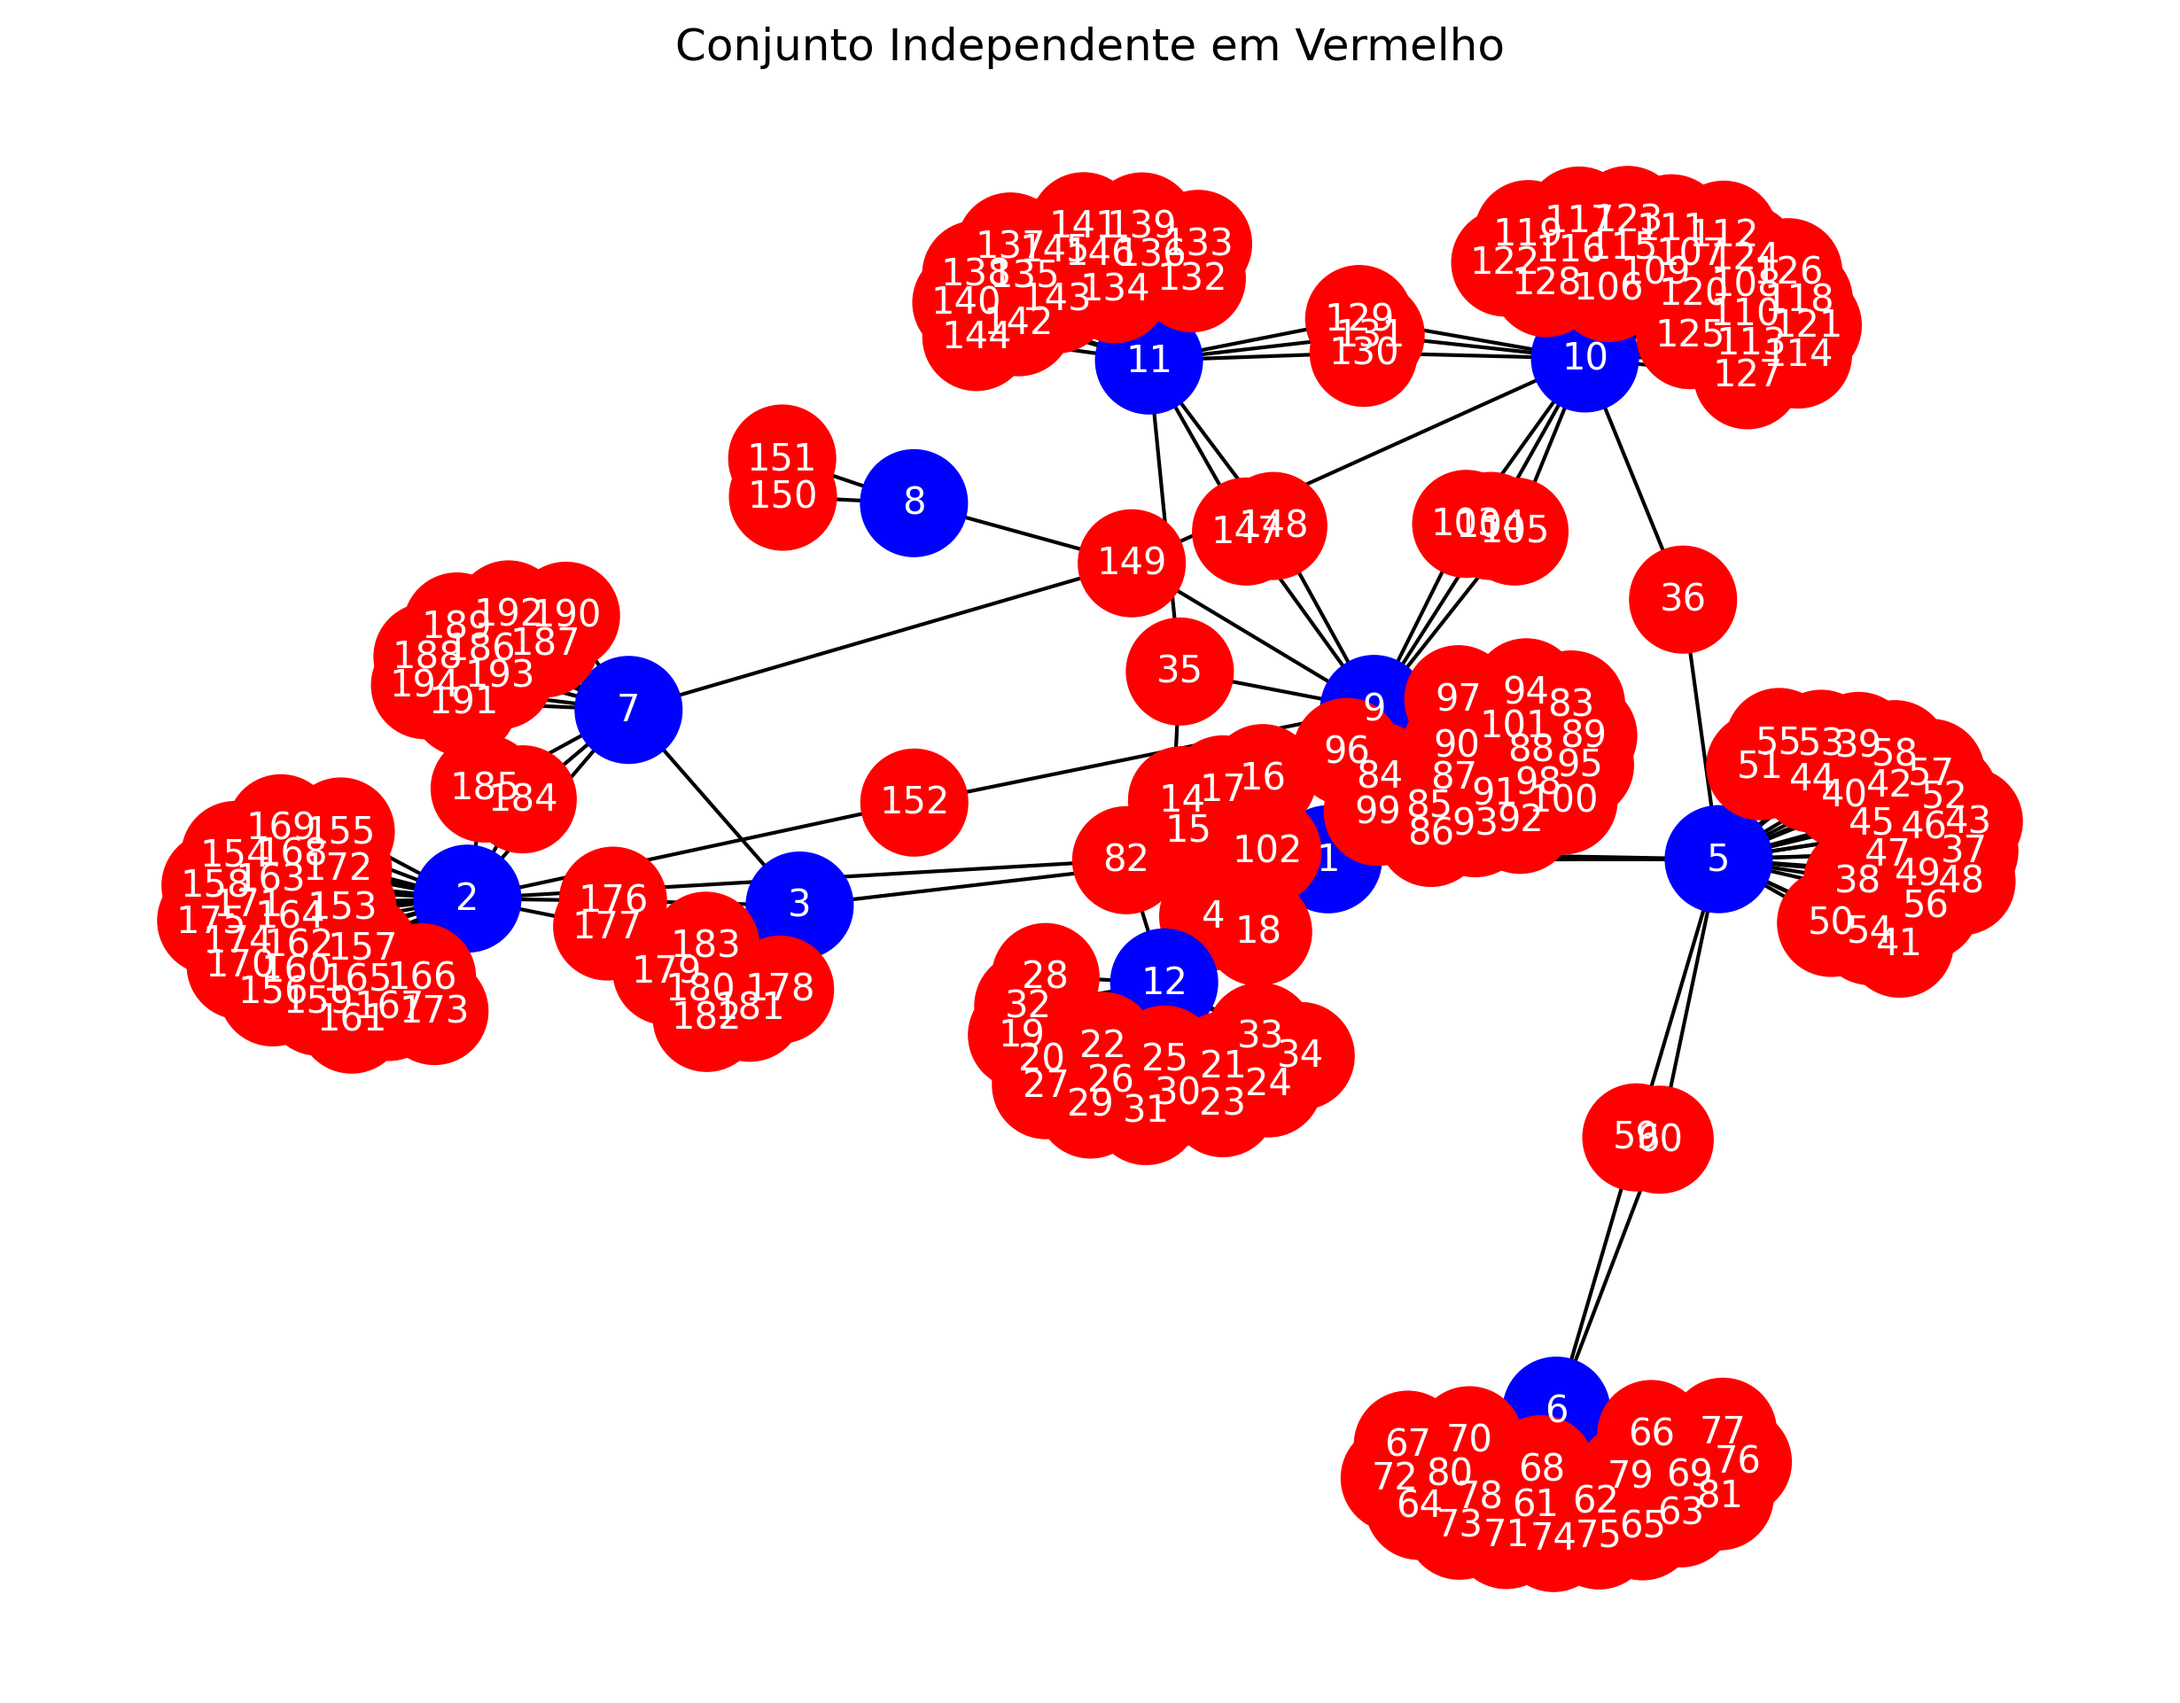
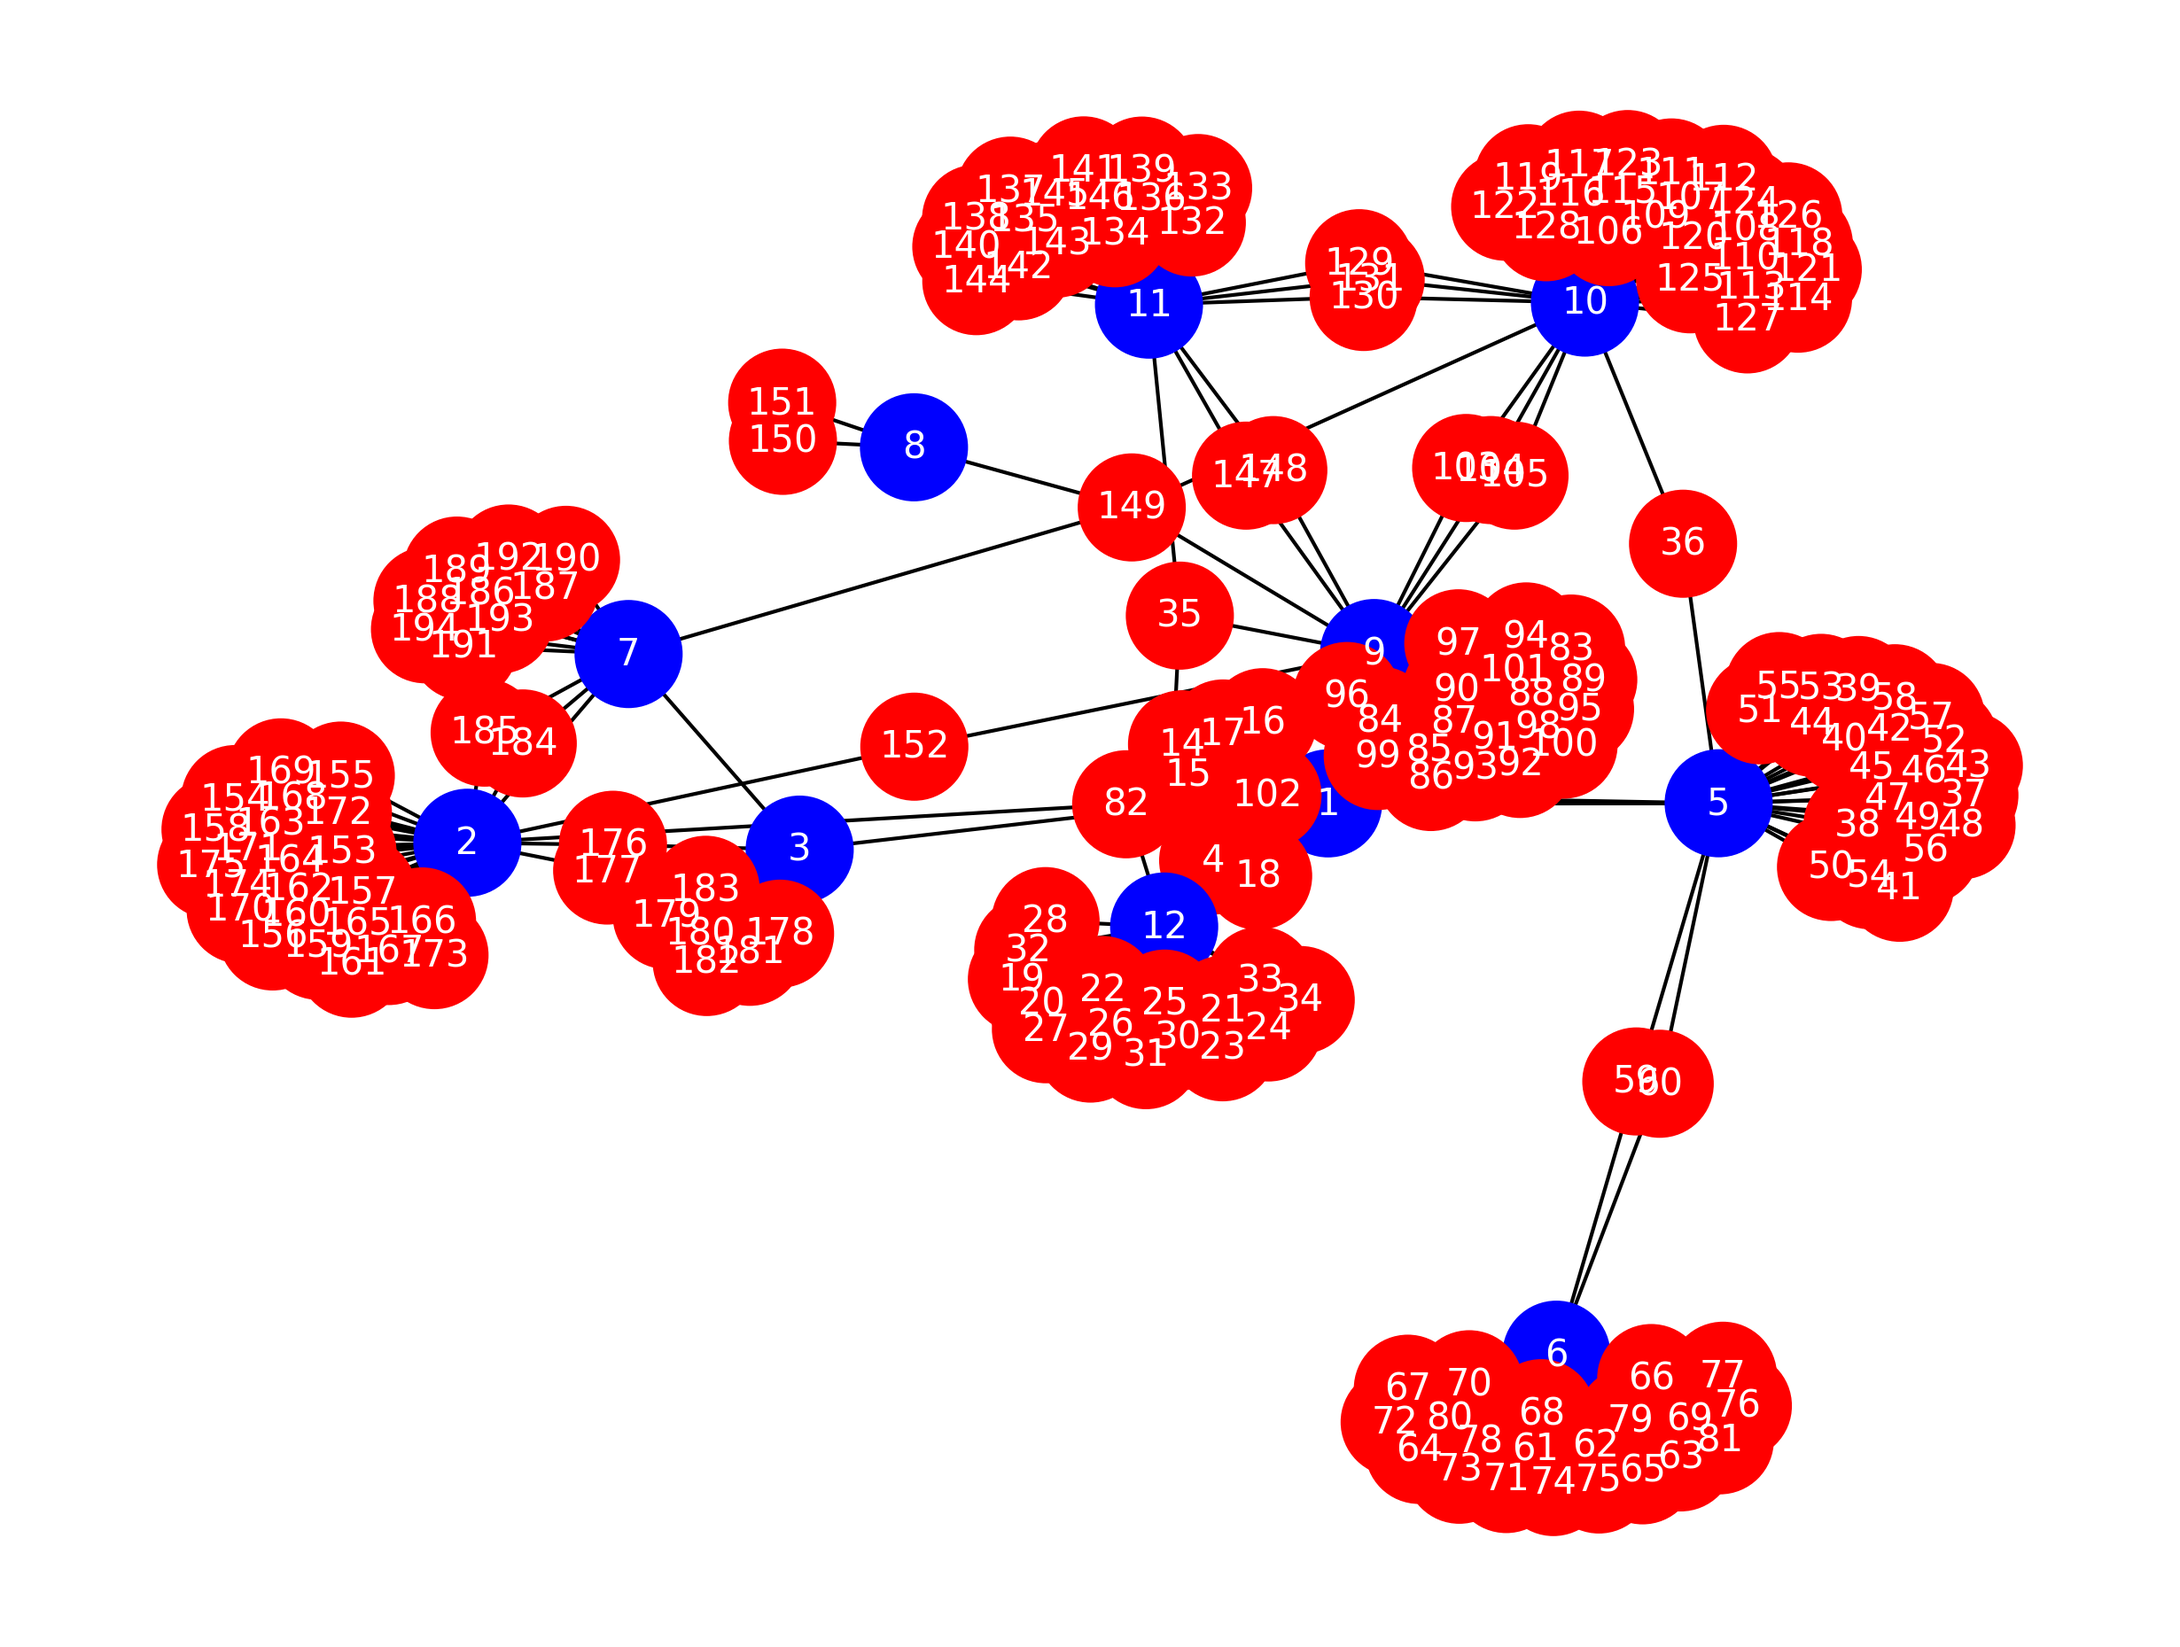
oi

Changed region(s): [[0.0618, 0.0624, 0.9268, 0.936], [0.3089, 0.0, 0.6797, 0.0312]]

diff --git a/trab3 - Redes Complexas/digraph.py b/trab3 - Redes Complexas/digraph.py
@@ -132,10 +132,10 @@ ax1 = fig.add_subplot(axgrid[3:, :2])
 ax1.plot(degree_sequence, "b-", marker="o")
 ax1.set_title("Distribuição dos Graus")
 ax1.set_ylabel("Grau")
-ax1.set_xlabel("Classificação")
+ax1.set_xlabel("N° de Vértices")
 
 # Exibindo o gráfico
-plt.tight_layout()
+plt.savefig()
 
 
 # ================================ Arvore geradora e clusters =====================================

diff --git a/trab3 - Redes Complexas/cjt_max.py b/trab3 - Redes Complexas/cjt_max.py
@@ -29,6 +29,6 @@ nx.draw(
     font_color="white",
     font_size=10,
 )
-plt.title("Conjunto Independente em Vermelho")
+#plt.title("Conjunto Independente em Vermelho")
 plt.savefig("Conjunto_Independente.png", dpi=300, bbox_inches="tight")
 plt.show()
